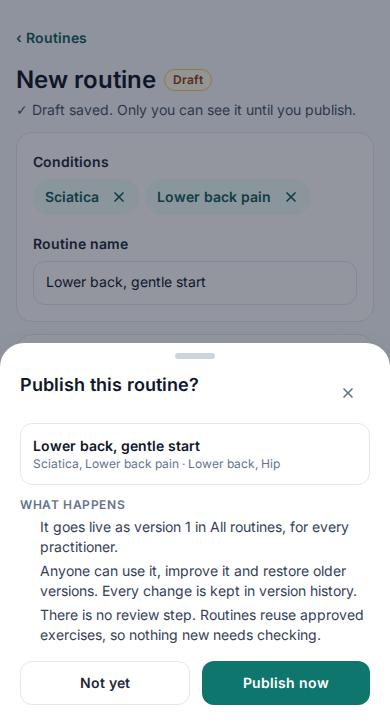
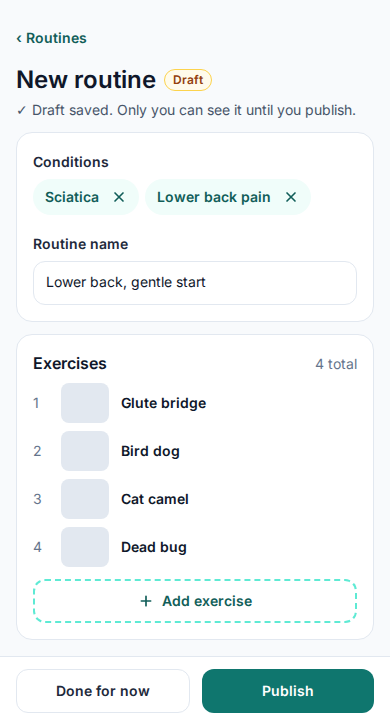
DIDI-1224 follow-up: similar routine warning spec nits (#139)
State 04 continue without publish sheet, layout class inventory,
lock citations, purpose wording, AI-cap split from 698eb165.

diff --git a/design/app/similar-routine-warning/spec.md b/design/app/similar-routine-warning/spec.md
@@ -4,7 +4,7 @@ Area: app · Feature: similar-routine-warning
 
 ## Purpose
 
-On the **New routine** draft flow (and the same draft editor when editing a draft), warn the practitioner when other routines look similar, without blocking autosave, **Done for now**, or **Publish**. Variant **B. Live inline card**: once the draft has enough data, the app checks in the background; when matches exist, an amber card lists up to three similar routines above the footer actions. **View** opens a read-only preview sheet over the form. **Continue anyway** dismisses the warning for this draft session.
+On the **New routine** draft flow (and the same draft editor when editing a draft), warn the practitioner when other routines look similar, without blocking autosave, **Done for now**, or **Publish**. Variant **B. Live inline card**: once the draft has enough data, the app checks in the background; when matches exist, an amber card lists up to three similar routines above the footer actions. **View** opens a read-only preview sheet over the form. **Continue anyway** dismisses the warning for this draft.
 
 The parent form fields (including **Conditions**, condition-first layout) follow [DIDI-1216](https://linear.app/didi-build/issue/DIDI-1216); only the similar-routine warning strings and behaviour are in scope here.
 
@@ -73,7 +73,7 @@ Derived from MagicPath board revision `471088919975432193` and DIDI-594 locks ab
 | View | Preview sheet over the form; draft stays underneath. Sheet title is the matched routine's name. Close returns to the form with draft unchanged. **Diadem, Nov 19, 2026, 4:32 PM ET** (`698eb165`), verbatim: View stays on the form as a preview sheet. |
 | Continue anyway | **Diadem, Nov 19, 2026, 4:32 PM ET** (`698eb165`), verbatim: After Continue anyway, it stays hidden for this draft. |
 | No match | No warning UI. **Publish** opens **Publish this routine?** with the routine card, **What happens** bullets, and **Publish now** / **Not yet** (same structure as [routines mockup 15](../routines/mockups/15-publish-routine-sheet-phone.png); sample routine name and tags in PNGs are not copy). |
-| Check failed or AI cap | **Diadem, Nov 19, 2026, 4:32 PM ET** (`698eb165`), verbatim: A failed check shows nothing, same as no match. Reached AI cap behaves the same on screen. **Publish** matches no match when no warning is shown. |
+| Check failed or AI cap | **Diadem, Nov 19, 2026, 4:32 PM ET** (`698eb165`), verbatim: A failed check shows nothing, same as no match. Reached daily AI cap shows no warning UI and does not block **Publish** (DIDI-594 L update 2, `03489a7e`). **Publish** matches no match when no warning is shown. |
 | Shared condition highlight | **Diadem, Nov 19, 2026, 4:32 PM ET** (`698eb165`), verbatim: Highlight shared conditions in filled teal, others outlined. |
 | Match row content | Routine name, condition chips (when present), overlap line, **View**; compact B rows omit **Used N times**. **Diadem, Nov 19, 2026, 4:31 PM ET** (DIDI-594 comment `903421e2`), verbatim: Leave "Used N times" off the compact rows. |
 | Scope | Published community routines plus the caller's own drafts and published routines; **My routines** saved copies are excluded from candidacy (server scope; lock `e5aa6515`). |
@@ -102,17 +102,73 @@ Scoring (`src/services/routines/routine-similarity-score.ts`, `src/routine-simil
 
 ## Layout and accessibility
 
-From variant B source (`SrBoard.tsx` revision `471088919975432193`):
+From variant B source (`SrBoard.tsx` / `BLiveInlineCard.tsx`, revision `471088919975432193`). Base text colour `#0f172a` via `.sr-root` (`SrBoard.css`).
+
+### Page shell
+
+| | Phone | Desktop (`wide`) |
+| -- | -- | -- |
+| Root | `sr-root relative min-h-full bg-slate-50 px-4 pb-0 pt-4` | `px-10 pb-6 pt-6` |
+| Form column | full width | `mx-auto max-w-[44rem]` |
+
+### Form blocks
+
+| Element | Classes |
+| -- | -- |
+| Card sections | `rounded-2xl border border-slate-200 bg-white p-4` |
+| Condition chips | `inline-flex min-h-9 items-center gap-1 rounded-full bg-teal-50 pl-3 pr-1 text-sm font-semibold text-teal-800` |
+| Exercise add | `min-h-11 w-full rounded-xl border-2 border-dashed border-teal-300 text-sm font-semibold text-teal-800` |
+
+### Warning card (`Warning`)
+
+| Element | Classes / attrs |
+| -- | -- |
+| Container | `section` `role="status"` `aria-live="polite"`; `rounded-2xl border border-amber-300 bg-amber-50 p-4` |
+| Title | `h2` `text-base font-semibold text-amber-900` |
+| Body | `p` `text-sm text-amber-900` |
+| Match list | `ul` `mt-3 space-y-2` |
+| **Continue anyway** | `secondary` + `mt-3 w-full` (see buttons) |
+
+### Match row (`MatchRow`, compact B)
+
+| Element | Classes |
+| -- | -- |
+| Row | `rounded-xl border border-amber-200 bg-white p-3` |
+| Thumbnail grid | `grid h-14 w-16 grid-cols-2 gap-0.5 rounded-lg` (cells `bg-slate-200`, `aria-hidden`) |
+| Name | `text-sm font-semibold` |
+| Condition chip shared | `badge(true)`: `inline-flex items-center rounded-full px-2.5 py-1 text-xs font-semibold bg-teal-700 text-white` |
+| Condition chip other | `badge(false)`: `bg-teal-50 text-teal-800` |
+| Overlap line | `text-xs text-slate-600` |
+| **View** | `inline-flex min-h-11 shrink-0 items-center rounded-xl border border-slate-200 px-3 text-sm font-semibold text-teal-800` |
+
+### Footer actions
+
+| Element | Classes |
+| -- | -- |
+| Bar | `mt-4 border-t border-slate-200 bg-white py-3`; phone `-mx-4 px-4`, desktop `flex items-center justify-end gap-3 px-4` |
+| Primary (**Publish**) | `inline-flex min-h-11 … rounded-xl bg-teal-700 px-4 py-2.5 text-sm font-semibold text-white` |
+| Secondary (**Done for now**) | `inline-flex min-h-11 … rounded-xl border border-slate-200 bg-white px-4 py-2.5 text-sm font-semibold text-slate-800` |
+
+### Sheets (`Sheet`, `PublishSheet`)
+
+| Element | Classes / attrs |
+| -- | -- |
+| Scrim | `absolute inset-0 bg-slate-900/45` |
+| Dialog | `role="dialog"` `aria-labelledby` on heading `id` |
+| Phone sheet | `max-h-[92%] overflow-y-auto rounded-t-3xl`; grab handle `h-1.5 w-10 rounded-full bg-slate-300` (`aria-hidden`) |
+| Desktop sheet | `max-w-[32rem] rounded-3xl`, centered in `p-6` |
+| Heading row | `px-5 pb-2 pt-3`; `h2` `text-lg font-semibold`; close `min-h-11 w-11 rounded-xl text-slate-500` |
+
+### Accessibility
 
 | Element | Markup / behaviour |
 | -- | -- |
-| Similar routines card | `<section role="status" aria-live="polite">` wrapping the amber warning. Title is a heading inside the section (`<h2>`). |
-| Preview sheet | `role="dialog"` with `aria-labelledby` pointing at the sheet heading. Heading text is the matched routine's name (runtime). Body shows badges, meta line, exercise list, and primary actions from reused routine strings. |
-| **Publish this routine?** sheet | Same dialog pattern; `aria-labelledby` references the **Publish this routine?** heading (reused publish strings from `src/ui/copy/routines.ts`). |
-| Close control | Icon button with `aria-label` **Close** (`src/ui/copy/a11y.ts` `ARIA_CLOSE_SCRIM`). |
-| Condition chip remove | Icon button with accessible name **Remove {condition}** (W7); `{condition}` is the chip label at runtime. |
-| Match row **View** | Text button showing **View** (W4). **Open: needs Diadem approval** (described need only): distinguishable accessible names per row when multiple **View** buttons are present. |
-| Shared exercise check in preview | Glyph marking exercises that overlap the draft. **Open: needs Diadem approval** (described need only): screen reader text for that indicator. |
+| Preview sheet | Heading is the matched routine's name (`sr-preview-title`). Body omits a second title (`showTitle={false}` on preview content). |
+| **Publish this routine?** sheet | `aria-labelledby` → `sr-publish-title`; reused publish strings from `src/ui/copy/routines.ts`. |
+| Close control | `aria-label` **Close** (`ARIA_CLOSE_SCRIM`). |
+| Condition chip remove | `aria-label` **Remove {condition}** (W7). |
+| Match row **View** | **Open: needs Diadem approval** (described need only): distinguishable accessible names per row when multiple **View** buttons are present. |
+| Shared exercise check in preview | `text-teal-700` check glyph, `aria-hidden` in source. **Open: needs Diadem approval** (described need only): screen reader text for that indicator. |
 
 ## States (mockups)
 
@@ -121,9 +177,9 @@ From variant B source (`SrBoard.tsx` revision `471088919975432193`):
 | 01 | form | New routine draft with conditions and exercises filled; check has run; **no** warning yet (no matches, or still below trigger). Same baseline as [routines mockup 11](../routines/mockups/11-new-routine-draft-autosaved-phone.png) plus condition chips from DIDI-1216 exploration. |
 | 02 | warn | Matches found: amber **Similar routines already exist** card with up to three rows and **Continue anyway**, footer **Done for now** / **Publish** visible below. |
 | 03 | view | **View** opened: preview sheet over the form (routine name once in the sheet title, not duplicated in the body). |
-| 04 | continue | **Continue anyway** taken: no warning card; **Publish this routine?** sheet over the form. |
-| 05 | nomatch | No warning; **Publish this routine?** sheet over the form. **Pixels match state 04 and 06**; capture is from `nomatch` state in the B board (logic: no similar routines). |
-| 06 | failed | **Pixels match state 04 and 05**; capture is from `failed` state in the B board (logic: check failed or AI cap, no warning UI). |
+| 04 | continue | **Continue anyway** taken: warning card hidden; form only (no sheet). Same chrome as state 01 until the practitioner taps **Publish**. |
+| 05 | nomatch | No warning; **Publish this routine?** sheet over the form (logic: no similar routines). |
+| 06 | failed | Same pixels as state 05 on screen (logic: check failed or AI cap, no warning UI); capture is from the `failed` board state. |
 
 **Capture sizes** (full frame, RGB PNG):
 
@@ -158,13 +214,13 @@ From variant B source (`SrBoard.tsx` revision `471088919975432193`):
 | W5 | Continue anyway | 2:14 PM |
 | W6 | {n} total | 2:43 PM (DIDI-594 comment `f4682350`) |
 | W7 | Remove {condition} | 2:43 PM (`f4682350`) |
-| W8 | Conditions | 4:27 PM ET |
+| W8 | Conditions | 4:27 PM ET (DIDI-594 comment `3fd723a4`) |
 
 **Diadem, Nov 19, 2026, 2:14 PM EST**, verbatim: "Yes, approve all five strings" (W1 to W5).
 
 **Diadem, Nov 19, 2026, 2:43 PM EST**, verbatim (DIDI-594 comment `f4682350`): Yes, approve "{n} total" and "Remove {condition}".
 
-**Diadem, Nov 19, 2026, 4:27 PM ET**, verbatim: yes to "conditions".
+**Diadem, Nov 19, 2026, 4:27 PM ET** (DIDI-594 comment `3fd723a4`), verbatim: yes to "conditions".
 
 W8 **Conditions** replaces `CONDITION` = "Condition" (`src/ui/copy/routines.ts` line 46) on the New routine form only.
 
@@ -226,7 +282,8 @@ Copy and accessibility items in the table above remain **Open: needs Diadem appr
 
 ## Changes
 
-- **Nov 19, 2026**: DIDI-1224. Diadem approved W8 `Conditions` at 4:27 PM ET (replaces `CONDITION` on New routine form). https://linear.app/didi-build/issue/DIDI-1224
+- **Nov 19, 2026**: DIDI-1224 follow-up. QA nits: state 04 continue mockup, spec wording, layout class inventory, lock citations (`3fd723a4`, `03489a7e` on AI cap). https://linear.app/didi-build/issue/DIDI-1224
+- **Nov 19, 2026**: DIDI-1224. Diadem approved W8 `Conditions` at 4:27 PM ET (`3fd723a4`; replaces `CONDITION` on New routine form). https://linear.app/didi-build/issue/DIDI-1224
 - **Nov 19, 2026**: DIDI-1224 QA R1. Re-render mockups (full frames, fixed states 04 to 06), layout/a11y section, L update 2 lock `03489a7e`, behaviour and copy lock ids, Conditions blocker note, DIDI-1263 dependency. https://linear.app/didi-build/issue/DIDI-1224
 - **Nov 19, 2026**: DIDI-1224. Diadem approved W6 `{n} total` and W7 `Remove {condition}` at 2:43 PM EST (`f4682350`). https://linear.app/didi-build/issue/DIDI-1224
 - **Nov 19, 2026**: DIDI-1224. Variant B spec, five approved strings, behaviour locks, six states, mockups from MagicPath revision `471088919975432193`. Unblocks [DIDI-1226](https://linear.app/didi-build/issue/DIDI-1226). https://linear.app/didi-build/issue/DIDI-1224
